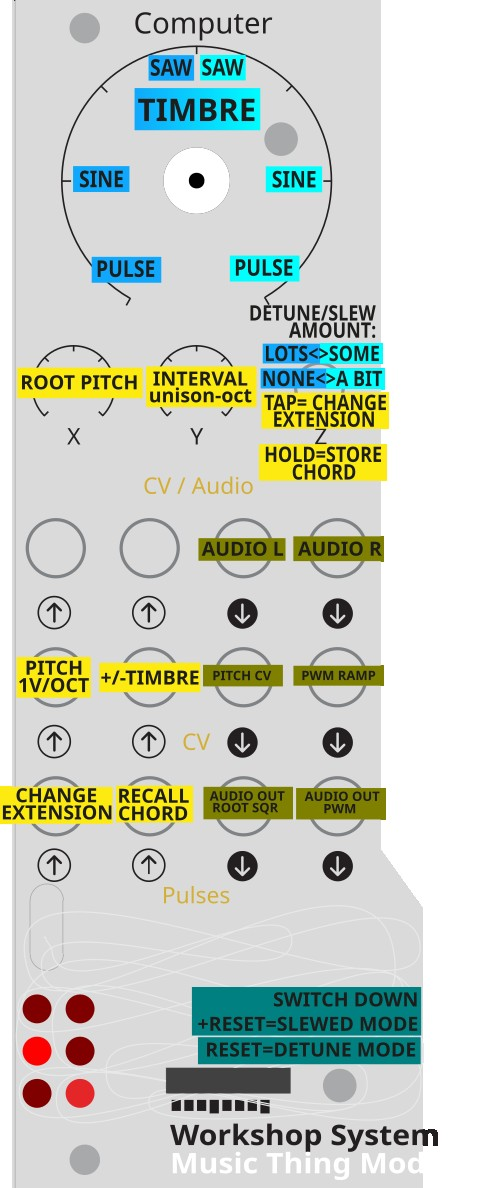
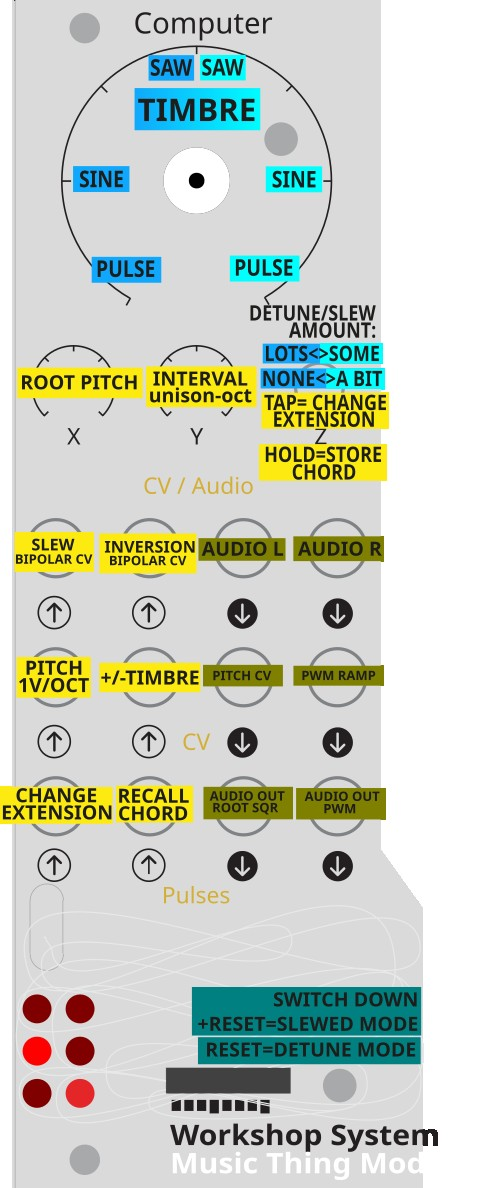
Merge pull request #197 from uglifruit/update-91-chorgan-v1.1
Chorgan v1.1.0 — slew speed CV, chord inversions

Pull request: Chorgan v1.1.0 — slew speed CV, chord inversions
Update to Chorgan, adding two new CV inputs using the previously unused Audio In jacks.

## Changes

**Audio In 1 — Slew speed**
Bipolar CV control over portamento glide time. 0V (unpatched) is instant — existing behaviour unchanged. Positive voltage adds portamento to all six voices simultaneously; +5V gives approximately one minute of glide time. Works in both normal and slew boot modes. In slew mode, negative voltage shortens the zone-controlled rate toward instant.

**Audio In 2 — Chord inversions**
Bipolar CV shifts the voicing through octave inversions. Positive voltage raises the lowest-sounding voice by one octave per step (up to 6 steps); negative voltage lowers the highest-sounding voice. CV Out 1 and Pulse Out 1 are unaffected — they continue to output the unmodified root pitch and interval.

## Files changed
- `releases/91_chorgan/main.cpp`
- `releases/91_chorgan/chorgan.uf2`
- `releases/91_chorgan/README.md`
- `releases/91_chorgan/info.yaml`
- `releases/91_chorgan/CHORGAN - WORKSHOP SYSTEM OVERLAY.jpg`

🤖 Generated with [Claude Code](https://claude.ai/claude-code)

Changed region(s): [[0.0309, 0.436, 0.4321, 0.4983]]

diff --git a/releases/91_chorgan/main.cpp b/releases/91_chorgan/main.cpp
@@ -9,6 +9,8 @@
 //   Switch Mid    : Detune normal (0 or 6 cents depending on knob side)
 //   Switch Down   : Tap = advance chord extension preset
 //   Pulse In 1    : Rising edge = advance chord extension preset
+//   Audio In 1    : Slew speed — 0V=instant, +5V≈1min glide (all modes); negative speeds up in alt mode
+//   Audio In 2    : Chord inversion — bipolar ±6 steps; shifts lowest/highest voice up/down by octave
 //   Audio Out 1   : 6-voice mix (left)
 //   Audio Out 2   : 6-voice mix with per-voice phase offset (right)
 //   Pulse Out 1   : Square wave one octave below root
@@ -210,6 +212,10 @@ public:
 	bool     modeLocked;     // true once boot switch has been sampled
 	int32_t  bootAnim;       // countdown for boot LED animation
 
+	// Audio In smoothers
+	int32_t  audio1Smoothed;
+	int32_t  audio2Smoothed;
+
 	// Slew state — persistent voice increments (only used in slew mode)
 	int32_t  voiceIncSlew[6];
 	int32_t  slewShift;      // IIR shift: 0=instant, 9=fast, 12=slow, 14=glacial
@@ -228,6 +234,8 @@ public:
 	{
 		for (int i = 0; i < 6; i++) phase[i] = uint32_t(i) * (0xFFFFFFFFu / 6);
 		for (int i = 0; i < 6; i++) voiceIncSlew[i] = 0;
+		audio1Smoothed   = 0;
+		audio2Smoothed   = 0;
 		subPhase     = 0;
 		pwmPhase     = 0;
 		detunePhase  = 0;
@@ -313,6 +321,10 @@ public:
 
 	void __not_in_flash_func(ProcessSample)() override
 	{
+		// --- Audio inputs (smoothed, τ≈64 samples) ---
+		audio1Smoothed += (AudioIn1() - audio1Smoothed) >> 6;
+		audio2Smoothed += (AudioIn2() - audio2Smoothed) >> 6;
+
 		// --- Pitch ---
 		static constexpr int32_t kPitchBase  = 2472; // ~C3
 		static constexpr int32_t kPitchRange = 1023; // 3 octaves to ~C6
@@ -434,6 +446,19 @@ public:
 			slewShift = kSlewShift[zone];
 		}
 
+		// --- Audio In 1: bipolar slew speed (0V=instant, +5V≈1min; negative speeds up in slew mode) ---
+		{
+			int32_t ai1Shift = 0;
+			if (audio1Smoothed > 0)
+				ai1Shift = (audio1Smoothed * 21) / 2047;
+			else if (slewMode && audio1Smoothed < 0)
+				ai1Shift = (audio1Smoothed * 21) / 2048;
+
+			slewShift = slewMode ? (slewShift + ai1Shift) : ai1Shift;
+			if (slewShift < 0)  slewShift = 0;
+			if (slewShift > 21) slewShift = 21;
+		}
+
 		// --- PU2 / CV Out 2 envelope: 50%→20% downward ramp ---
 		// Resets to 50% on zone change. Rate per zone:
 		// Zone 0 (Mid CCW): instant (snap to 20%)
@@ -466,9 +491,9 @@ public:
 			}
 		}
 
-		// --- Apply slew (slew mode) or use targets directly (normal mode) ---
+		// --- Apply slew or use targets directly ---
 		int32_t voice_inc[6];
-		if (slewMode && slewShift > 0)
+		if (slewShift > 0)
 		{
 			for (int i = 0; i < 6; i++)
 			{
@@ -482,6 +507,54 @@ public:
 			{
 				voice_inc[i]     = voice_inc_target[i];
 				voiceIncSlew[i]  = voice_inc_target[i]; // keep slew state in sync when instant
+			}
+		}
+
+		// --- Audio In 2: chord voicing inversions (bipolar ±6 steps, audio only) ---
+		// Positive: raise lowest voice by octaves. Negative: lower highest voice.
+		// voice_inc_target[] is untouched — CV Out 1 and Pulse Out 1 are unaffected.
+		{
+			int32_t invSteps = (audio2Smoothed * 6) / 2047;
+			if (invSteps >  6) invSteps =  6;
+			if (invSteps < -6) invSteps = -6;
+
+			if (invSteps != 0)
+			{
+				// Sort voice_inc[] ascending into vi[] (insertion sort, 6 elements)
+				int32_t vi[6];
+				for (int i = 0; i < 6; i++) vi[i] = voice_inc[i];
+				for (int i = 1; i < 6; i++) {
+					int32_t key = vi[i]; int j = i - 1;
+					while (j >= 0 && vi[j] > key) { vi[j+1] = vi[j]; j--; }
+					vi[j+1] = key;
+				}
+
+				// Positive steps: raise lowest non-zero voice one octave, re-sort
+				for (int s = 0; s < invSteps; s++) {
+					for (int i = 0; i < 6; i++) {
+						if (vi[i] > 0) { vi[i] <<= 1; break; }
+					}
+					for (int i = 0; i < 5; i++)
+						if (vi[i] > vi[i+1] && vi[i+1] > 0) { int32_t t=vi[i]; vi[i]=vi[i+1]; vi[i+1]=t; }
+				}
+
+				// Negative steps: lower highest non-zero voice one octave, re-sort
+				for (int s = 0; s < -invSteps; s++) {
+					for (int i = 5; i >= 0; i--) {
+						if (vi[i] > 0) { vi[i] >>= 1; break; }
+					}
+					for (int i = 5; i > 0; i--)
+						if (vi[i] < vi[i-1] && vi[i] > 0) { int32_t t=vi[i]; vi[i]=vi[i-1]; vi[i-1]=t; }
+				}
+
+				// Map sorted vi[] back to original voice slots by ascending voice_inc order
+				int idx[6] = {0,1,2,3,4,5};
+				for (int i = 1; i < 6; i++) {
+					int key = idx[i]; int j = i - 1;
+					while (j >= 0 && voice_inc[idx[j]] > voice_inc[key]) { idx[j+1] = idx[j]; j--; }
+					idx[j+1] = key;
+				}
+				for (int i = 0; i < 6; i++) voice_inc[idx[i]] = vi[i];
 			}
 		}
 

diff --git a/releases/91_chorgan/README.md b/releases/91_chorgan/README.md
@@ -23,6 +23,8 @@ In both modes, Pulse Out 2 and CV Out 2 fire a timed envelope on every chord eve
 |------|----------|
 | CV In 1 | Root pitch 1V/oct (0V = C4) — summed with Knob X |
 | CV In 2 | Timbre offset — bipolar, offsets the Main knob position |
+| Audio In 1 | Slew speed offset bipolar CV
+| Audio In 2 | Chord inversion — bipolar; shifts voices up or down through octave inversions |
 | Pulse In 1 | Rising edge advances the chord extension preset |
 | Pulse In 2 | Rising edge recalls the next stored chord |
 
@@ -57,6 +59,18 @@ Morphs the waveform of all six voices simultaneously. The curve is a W-shape:
 | Fully CW | Narrow pulse |
 
 CV In 2 offsets the knob position bipolarly but cannot push the timbre into a different detune/slew zone — that is always determined by the physical knob position.
+
+**Audio In 1 — Slew speed**
+Patches a portamento glide onto all six voices. 0V (or unpatched) is instant — identical to the current behaviour. Positive voltage adds glide: at +5V the glide time is approximately one minute. The full range is continuously variable between those two extremes.
+
+In normal (detune) mode, Audio In 1 adds slew on top of the existing detune — voices glide to their detuned targets rather than snapping to them. Detune is still active.
+
+In slew mode, Audio In 1 offsets the zone-controlled rate. Positive voltage extends the glide beyond what the zone alone provides; negative voltage shortens it, bringing the glide back toward instant. (At maximum the slew time ~1min)
+
+**Audio In 2 — Chord inversions**
+Shifts the voicing up or down through octave inversions. At 0V the voicing is unchanged. Positive voltage steps the lowest-sounding voice up by one octave per step, cycling the voicing upward. Negative voltage steps the highest-sounding voice down by one octave per step. There are six steps available in each direction.
+
+This only affects the audio outputs — CV Out 1 and Pulse Out 1 continue to track the unmodified root pitch and interval.
 
 **Switch + Main Knob position — Detune (normal mode) / Slew rate (slew mode)**
 